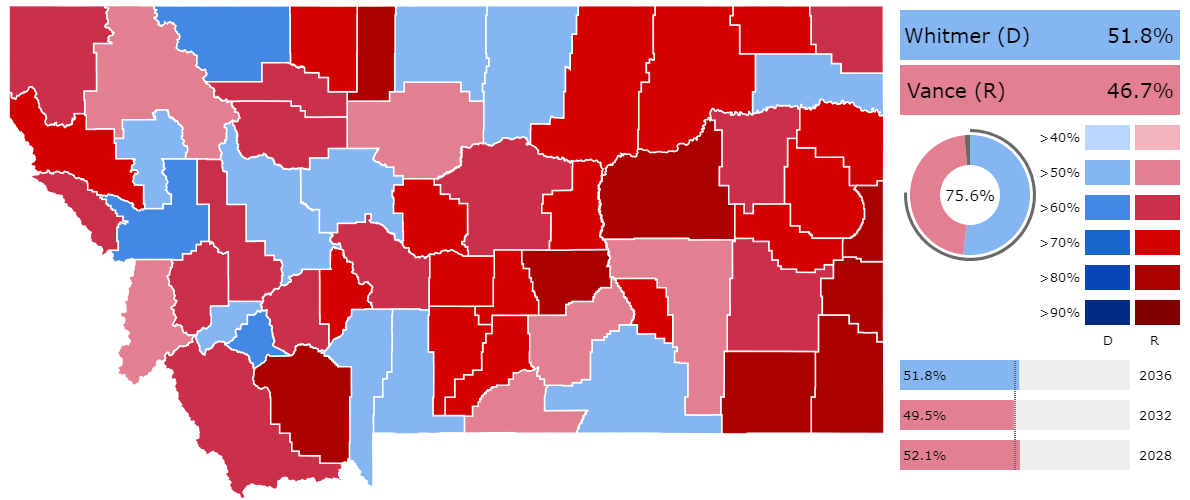
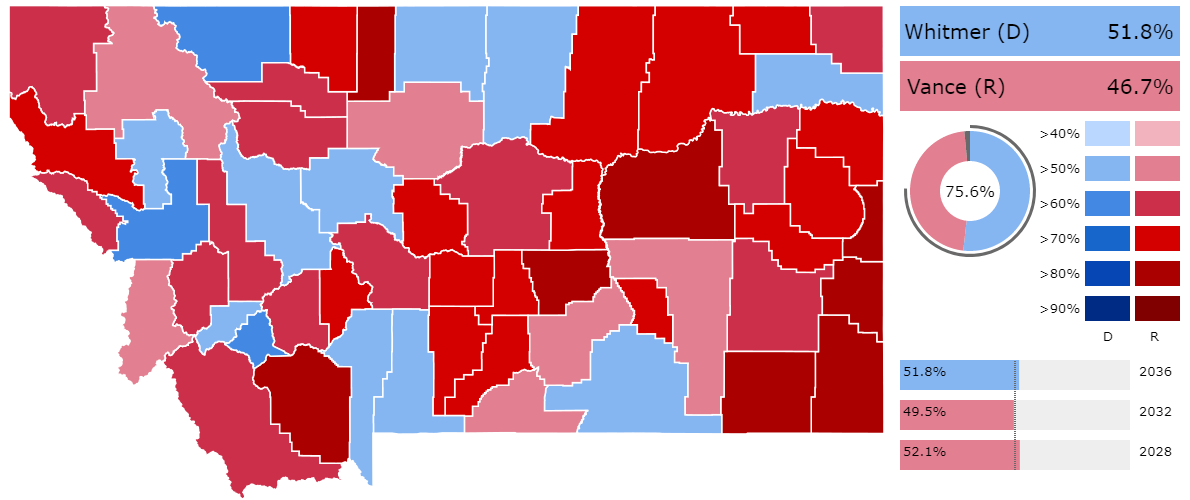
Pushed the legend up.

diff --git a/main.py b/main.py
@@ -762,33 +762,33 @@ def draw_legend(candidates: list[str],
                            colors=[palettes[0][1], palettes[1][1]],
                            color_other=COLOR_OTHER,
                            turnout=turnout,
-                           circle_point=[80, 305],
+                           circle_point=[80, 309],
                            radii=[66, 63, 60, 30],
                            turnout_text_size=15,
                            figure=figure)
     legend = Legend(palettes=palettes,
                     total_x_borders=[190, 190, 295, 295],
-                    total_y_borders=[170, 380, 380, 170],
+                    total_y_borders=[174, 384, 384, 174],
                     border_x_margin=5,
                     border_y_margin=5,
                     palette_x_margin=5,
                     palette_y_margin=10,
                     horizontal_text=parties,
-                    horizontal_text_positions=[[217.5, 160], [265, 160]],
+                    horizontal_text_positions=[[217.5, 164], [265, 164]],
                     horizontal_text_size=13,
                     vertical_text=[f">{i}%" for i in range(40, 100, 10)][::-1],
-                    vertical_text_position=[169, 188.5],
+                    vertical_text_position=[169, 192.5],
                     vertical_text_size=13,
                     figure=figure)
     blocks = CandidateBlocks(x_borders=[10, 10, 290, 290],
-                             y_borders=[385, 435, 435, 385],
+                             y_borders=[389, 439, 439, 389],
                              y_margin=5,
                              colors=[palettes[1][1], palettes[0][1]],
                              candidate_text=candidates,
-                             candidate_text_positions=[[77, 465], [66, 410]],
+                             candidate_text_positions=[[77, 469], [66, 414]],
                              candidate_text_size=20,
                              result_text=[f"{i}%" for i in results],
-                             result_text_positions=[[250, 410], [250, 465]],
+                             result_text_positions=[[250, 414], [250, 469]],
                              result_text_size=20,
                              figure=figure)
     bars = ResultPlot(x_borders=[10, 10, 240, 240],
@@ -798,10 +798,10 @@ def draw_legend(candidates: list[str],
                       colors=bar_colors,
                       neutral_color="#EEEEEE",
                       year_text=bar_years,
-                      year_text_positions=[[265, 45], [265, 85],
-                                               [265, 125]],
+                      year_text_positions=[[265, 49], [265, 89],
+                                               [265, 129]],
                       year_text_size=13,
-                      result_text_positions=[[35, 45], [35, 85], [35, 125]],
+                      result_text_positions=[[35, 49], [35, 89], [35, 129]],
                       result_text_size=13,
                       figure=figure)
     figure.write_image(name, width=300, height=500)
